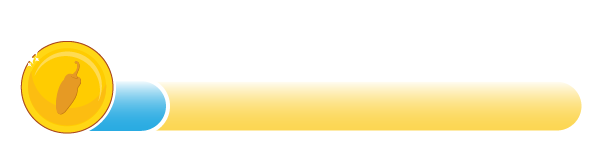
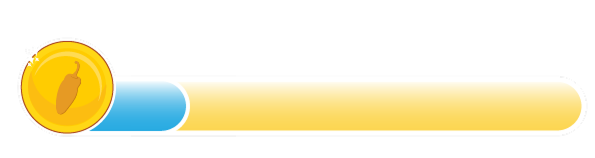
fix: added missing images for coin statusbar

Changed region(s): [[0.242, 0.5063, 0.3328, 0.8354]]

diff --git a/javaScript/manager/imgHub.class.js b/javaScript/manager/imgHub.class.js
@@ -156,10 +156,15 @@ export class ImgHub {
     static STATUSBAR = {
         COIN: [
             "./img/7_statusbars/1_statusbar/1_statusbar_coin/blue/0.png",
+            "./img/7_statusbars/1_statusbar/1_statusbar_coin/blue/10.png",
             "./img/7_statusbars/1_statusbar/1_statusbar_coin/blue/20.png",
+            "./img/7_statusbars/1_statusbar/1_statusbar_coin/blue/30.png",
             "./img/7_statusbars/1_statusbar/1_statusbar_coin/blue/40.png",
+            "./img/7_statusbars/1_statusbar/1_statusbar_coin/blue/50.png",
             "./img/7_statusbars/1_statusbar/1_statusbar_coin/blue/60.png",
+            "./img/7_statusbars/1_statusbar/1_statusbar_coin/blue/70.png",
             "./img/7_statusbars/1_statusbar/1_statusbar_coin/blue/80.png",
+            "./img/7_statusbars/1_statusbar/1_statusbar_coin/blue/90.png",
             "./img/7_statusbars/1_statusbar/1_statusbar_coin/blue/100.png",
         ],
         HEALTH: [
